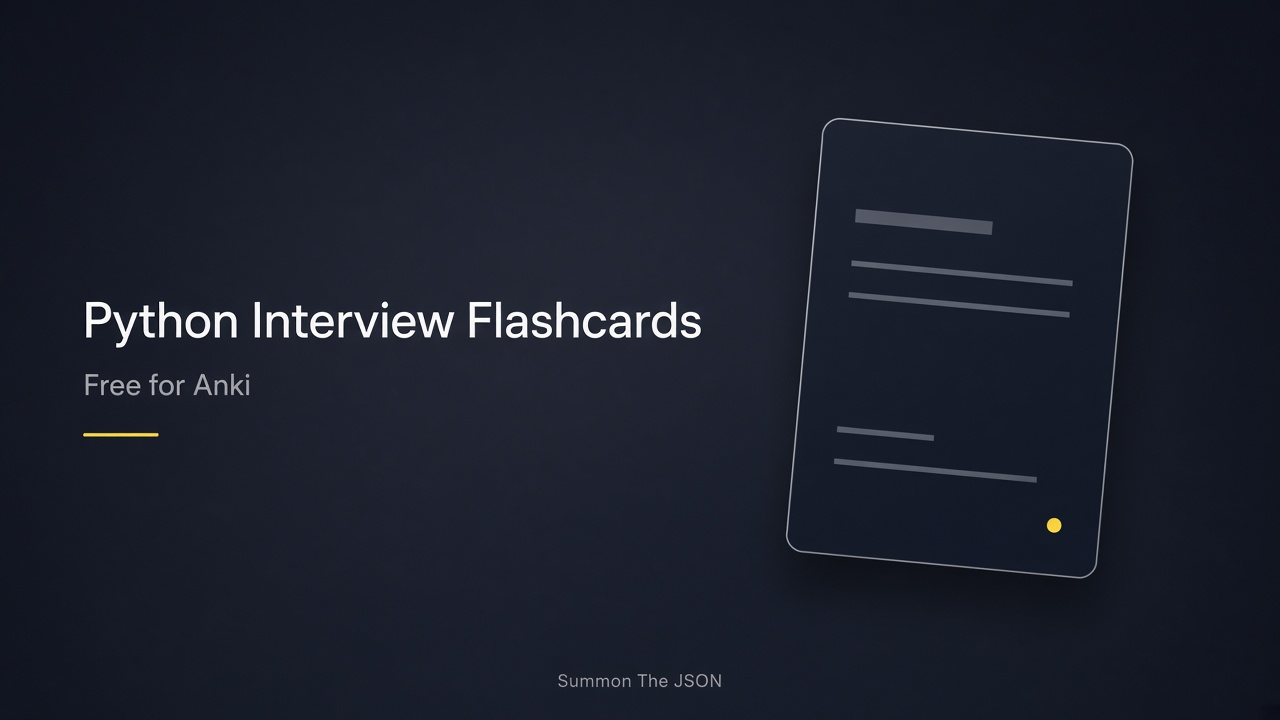
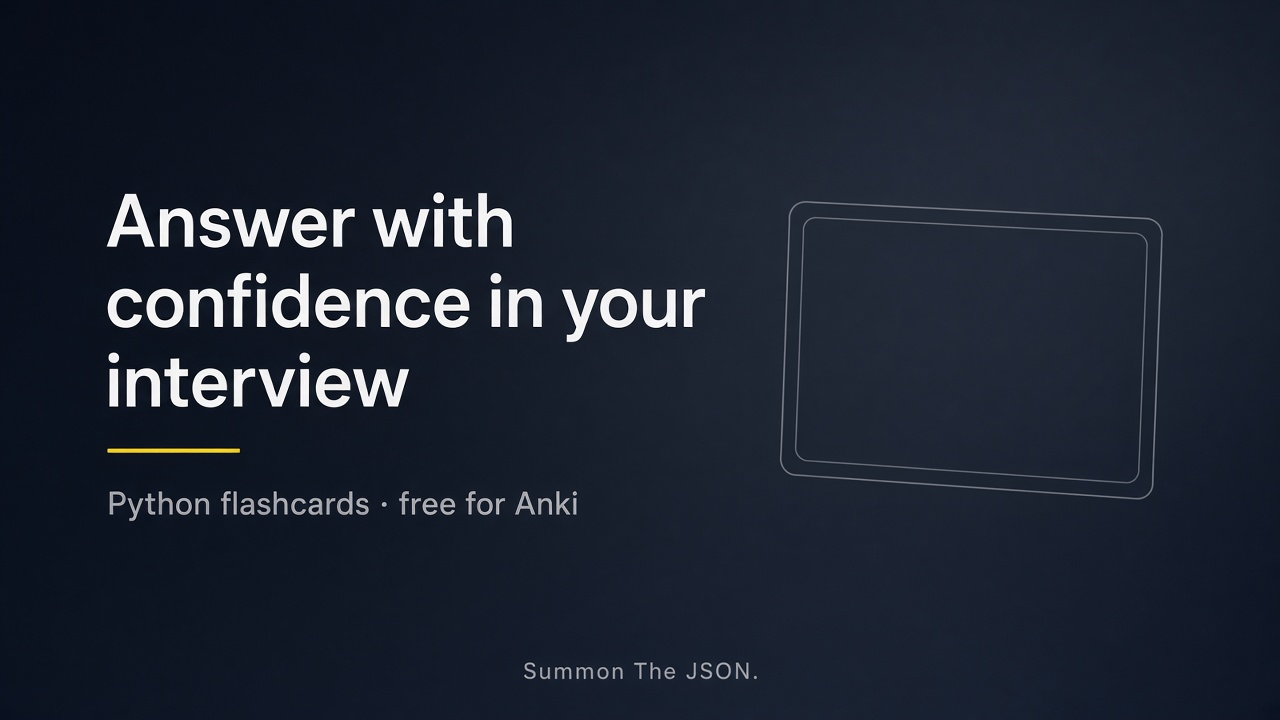
Benefit-focused hero, author sections, and README polish

diff --git a/README.md b/README.md
@@ -3,14 +3,13 @@
 [![Anki](https://img.shields.io/badge/Anki-deck-blue?style=flat-square)](https://apps.ankiweb.net/)
 [![Cards](https://img.shields.io/badge/cards-100-green?style=flat-square)](#deck-contents)
 [![License](https://img.shields.io/badge/license-personal%20use%20only-red?style=flat-square)](LICENSE)
-[![Year](https://img.shields.io/badge/edition-2026-lightgrey?style=flat-square)](#changelog)
-[![Download .apkg](https://img.shields.io/badge/Download-.apkg-2563eb?style=for-the-badge)](https://github.com/tomaszs/python-interview-flashcards-free/releases/download/v2026.1/Python_Interview_2026.apkg)
+[![Download](https://img.shields.io/badge/download-.apkg-2563eb?style=flat-square)](https://github.com/tomaszs/python-interview-flashcards-free/releases/download/v2026.1/Python_Interview_2026.apkg)
 
 ![Python Interview Flashcards Free](assets/readme-hero.png)
 
-Free **Python interview flashcards** for Anki: **100 cards** for **software engineer** interviews covering Python 3.12+, typing, asyncio, data structures, OOP, and production Python.
+**Walk into your Python interview prepared.** 100 curated questions with clear, structured answers you can recall under pressure. Study on your phone, tablet, or computer.
 
-**[Download `Python_Interview_2026.apkg`](https://github.com/tomaszs/python-interview-flashcards-free/releases/download/v2026.1/Python_Interview_2026.apkg)** · no GitHub account required · works on phone, tablet, or computer
+**[Download `Python_Interview_2026.apkg`](https://github.com/tomaszs/python-interview-flashcards-free/releases/download/v2026.1/Python_Interview_2026.apkg)** · free for personal study · no GitHub account required
 
 ## Table of contents
 
@@ -25,8 +24,9 @@ Free **Python interview flashcards** for Anki: **100 cards** for **software engi
 - [How to study](#how-to-study)
 - [Card format](#card-format)
 - [FAQ](#faq)
+- [About the creator](#about-the-creator)
+- [About Summon The JSON](#about-summon-the-json)
 - [More decks](#more-decks)
-- [Author](#author)
 - [License](#license)
 - [Changelog](#changelog)
 
@@ -61,7 +61,7 @@ A flashcard is a simple question on one side and the answer on the other. You **
 
 ### What is Anki?
 
-[Anki](https://apps.ankiweb.net/) is a free flashcard app (with paid mobile apps) built around **spaced repetition**. Instead of cramming everything in one sitting, Anki schedules each card based on how well you know it:
+[Anki](https://apps.ankiweb.net/) is a flashcard app built around **spaced repetition**. Instead of cramming everything in one sitting, Anki schedules each card based on how well you know it:
 
 - Cards you find **easy** appear less often.
 - Cards you **miss** come back sooner.
@@ -103,7 +103,7 @@ Flashcards complement AI rather than replace them:
 | Risk of shallow "I saw this in ChatGPT" familiarity | Builds **durable memory** for whiteboard and verbal rounds |
 | Great for exploring new topics | Great for **locking in** what you must explain clearly |
 
-Use AI to explore and clarify. Use Anki to **remember, retrieve, and perform** when it counts. In 2026, candidates who combine both tend to interview more confidently than those who only consume generated answers.
+Use AI to explore and clarify. Use Anki to **remember, retrieve, and perform** when it counts. Candidates who combine both tend to interview more confidently than those who only consume generated answers.
 
 ## Anki apps by platform
 
@@ -230,9 +230,20 @@ Part of the **Summon The JSON** interview flashcard series:
 
 If this deck helped you, **star the repo** so others can find it.
 
-## Author
+## About the creator
 
-**Tom Smykowski** · [Summon The JSON](https://summonthejson.com)
+**Tom Smykowski** is a software engineer with 20+ years in programming and mentoring. He is an awarded tech editor, in the top 2% on [Stack Overflow](https://stackoverflow.com/users/936078/tomasz-smykowski), and has reached millions of readers through technical writing.
+
+Tom builds interview flashcards to help developers **explain technical topics clearly under pressure**, not just recognize buzzwords. This deck is part of that work.
+
+- Personal site: [tomasz-smykowski.com](https://tomasz-smykowski.com)
+- Publisher: [Summon The JSON](https://summonthejson.com)
+
+## About Summon The JSON
+
+[Summon The JSON](https://summonthejson.com) is a learning brand for developers. It combines practical study tools with programming education: **physical flashcards**, printable decks, and free Anki decks like this one.
+
+The goal is simple: structured prep that fits real interview rooms. Questions you can practice daily, answers you can deliver out loud, and topics aligned with what hiring teams actually ask about python.
 
 ## License
 
